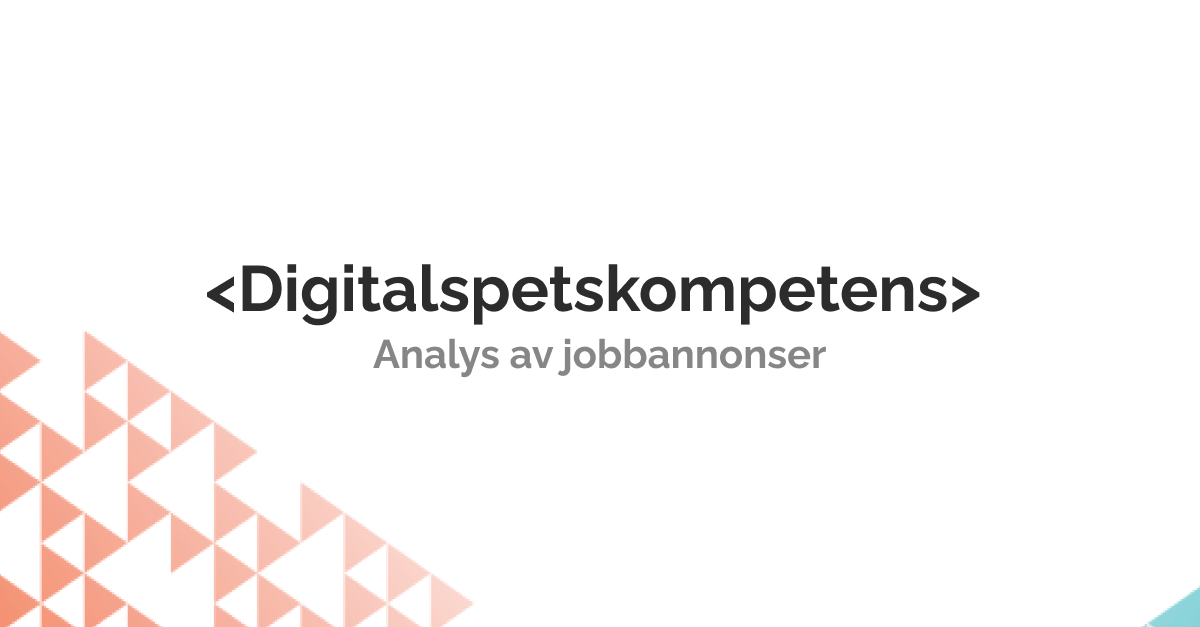
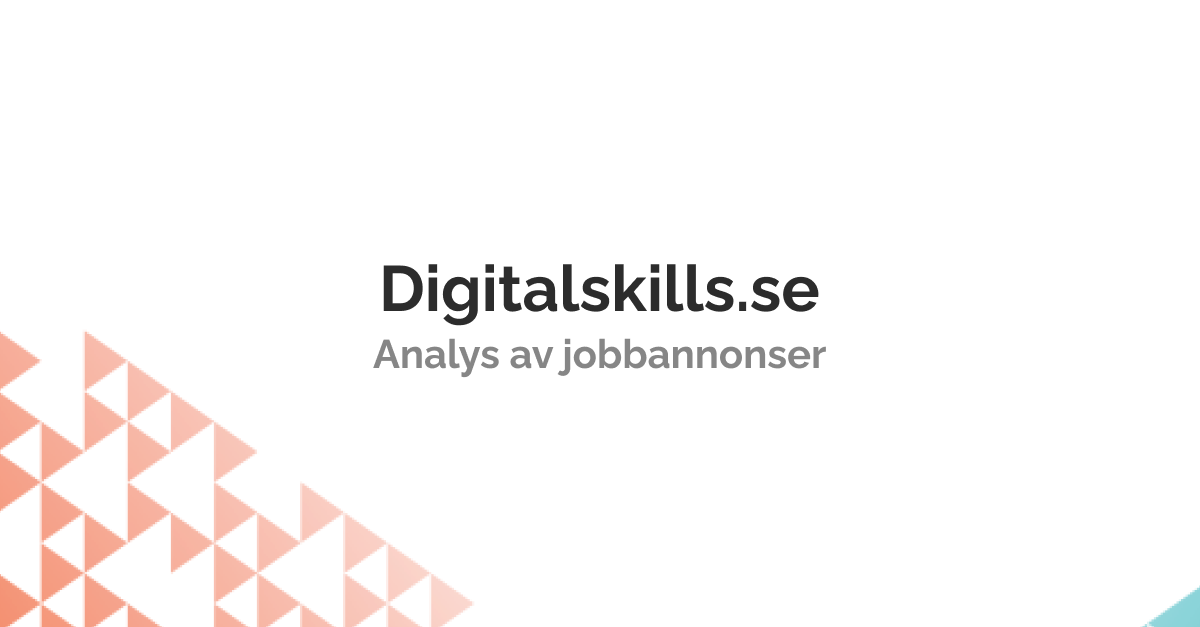
rebrand from digitalspetskompetens to digitalskills

Changed region(s): [[0.1542, 0.4242, 0.8325, 0.5152]]

diff --git a/components/Footer.tsx b/components/Footer.tsx
@@ -5,7 +5,7 @@ const Footer = () => {
     <footer className="bg-[#fafafa] p-8">
       <div className="mx-auto max-w-6xl flex flex-col md:flex-row justify-between">
         <div className="md:w-3/5 md:mr-8">
-          <p className="text-xl mb-2">{"<Digitalspetskompetens>"}</p>
+          <p className="text-xl mb-2">{"Digitalskills.se"}</p>
           <p className="leading-relaxed">
             Tillväxtverket och Universitetskanslersämbetet har av regeringen
             fått i uppdrag att tillsammans analysera och föreslå hur

diff --git a/components/Navbar.tsx b/components/Navbar.tsx
@@ -14,7 +14,7 @@ const Navbar = () => {
           tabIndex={0}
           className="text-2xl block text-[#C1531B] font-bold focus:outline-none focus:ring focus:ring-violet-300 min-w-max"
         >
-          {"<Digital Spetskompetens>"}
+          {"Digitalskills.se"}
         </a>
       </Link>
       <button
